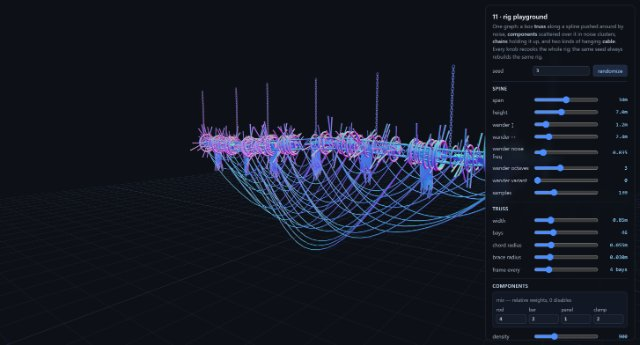
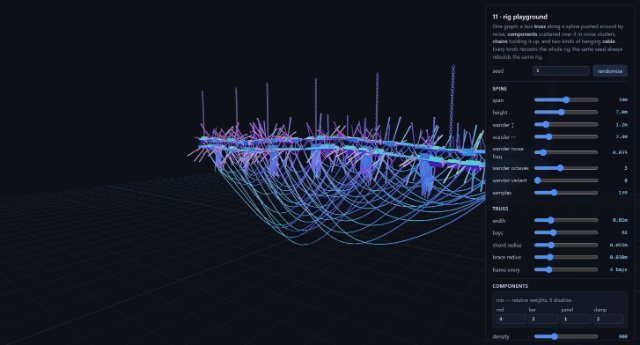
demo(11): components mount to the chords, not the truss axis
A fixture on the centreline of a box truss is inside the box. Each
component now snaps its fan angle to the nearest corner and steps out
there, so it leaves from the tube it would really be clamped to — while
still pointing along its own fan angle, so the radial spread is
unchanged. `mount to chord` blends from the axis (0) out to the corner
(1) for comparison.

The trap this had to avoid: randomField keys on point IDENTITY — stored
position bits plus the seed — so drawing the fan angle a second time
AFTER the mount has moved the point yields a DIFFERENT number, and the
chord a fixture sits on would disagree with the direction it points.
The angle is drawn once, written to an attribute before anything moves,
and read back from there. One draw, one column, read twice.

Verified against the axis rather than by eye: at mount 0 the median
distance from the truss axis is 0.019 m (the scatter jitter), at 0.5 it
is 0.302, and at 1 it is 0.603 against a corner radius of 0.601.

The corner radius is now one shared helper. The truss and anything
mounted to it disagreeing by a hair puts every fixture inside the tube,
which is exactly the kind of thing two copies of `w / 2 * sqrt(2)` drift
into.

Follow-on: the clamp is a collar gripping ONE chord again. Making it a
hoop around the whole section was right while components sat on the
axis and wrong the moment they moved out, since an off-centre hoop
encircles nothing. It tracks the chord radius now.
[…]

Changed region(s): [[0.2812, 0.3188, 0.7812, 0.7246]]

diff --git a/examples/11-rig-playground/rig.ts b/examples/11-rig-playground/rig.ts
@@ -116,6 +116,11 @@ export interface RigParams {
   radialSpread: number;
   /** Scatter off the even resample, as a fraction of the sample spacing. */
   scatterJitter: number;
+  /**
+   * How far out toward a chord each component is mounted, as a fraction
+   * of the corner radius. 0 leaves everything on the truss axis.
+   */
+  partMount: number;
   partSize: number;
   sizeJitter: number;
   // suspension
@@ -188,6 +193,7 @@ export const DEFAULT_PARAMS: RigParams = {
   clusterThreshold: 0.46,
   radialSpread: 1,
   scatterJitter: 0.5,
+  partMount: 1,
   partSize: 1,
   sizeJitter: 0.45,
   chainCount: 7,
@@ -221,6 +227,16 @@ export const DEFAULT_PARAMS: RigParams = {
  */
 function noiseSeed(params: RigParams, salt: number, variant: number): number {
   return hashCombine(params.seed, hashCombine(salt, Math.round(variant)));
+}
+
+/**
+ * Distance from the truss axis out to a chord. The corners sit at 45,
+ * 135, 225 and 315 degrees, so it is half the DIAGONAL of the section
+ * and not half the side. Shared, because the truss and anything mounted
+ * to it disagreeing by a hair puts every fixture inside the tube.
+ */
+function trussCornerRadius(params: RigParams): number {
+  return (params.trussWidth / 2) * Math.SQRT2;
 }
 
 /** Corners the wander is built from, before the arc-length evening. */
@@ -362,7 +378,39 @@ export function buildRigGraph(params: RigParams): Graph {
   // angle `a` in the plane perpendicular to the tangent. A constant
   // world up cannot express it, which is the whole reason `up` is
   // field-capable and writeCurveFrame exists.
-  const angle = mul(randomField("radial"), Math.PI * 2 * params.radialSpread);
+  // The fan angle is STORED before anything moves, and read back from
+  // the attribute afterwards. randomField keys on point IDENTITY — the
+  // stored position bits together with the seed — so drawing it a second
+  // time AFTER the mount below has moved the point yields a DIFFERENT
+  // number, and the chord a fixture sits on would disagree with the way
+  // it points. One draw, one column, read twice.
+  const angleAttr = graph.add(setAttribute, {
+    name: "radialAngle",
+    domain: "point",
+    type: "f32",
+    tupleSize: 1,
+    value: mul(randomField("radial"), Math.PI * 2 * params.radialSpread),
+  });
+  const angle = attribute("radialAngle", 1);
+
+  // Mount to the nearest CHORD rather than to the axis: snap the fan
+  // angle to the closest corner and step out there. The fixture still
+  // points along its own fan angle, so it fans as before — it just
+  // leaves from the tube it would really be clamped to.
+  const mount = graph.add(transformPoints, {
+    translate: (() => {
+      const reach = trussCornerRadius(params) * params.partMount;
+      // round(x) as floor(x + 0.5); the corners are a quarter turn apart
+      // starting at an eighth.
+      const k = floor(add(div(sub(angle, Math.PI / 4), Math.PI / 2), 0.5));
+      const corner = add(mul(Math.PI / 2, k), Math.PI / 4);
+      return add(
+        mul(mul(reach, cos(corner)), attribute("curveNormal", 3)),
+        mul(mul(reach, sin(corner)), attribute("curveBinormal", 3)),
+      );
+    })(),
+  });
+
   const orient = graph.add(orientAlongVector, {
     direction: attribute("tangent", 3),
     up: add(
@@ -390,7 +438,9 @@ export function buildRigGraph(params: RigParams): Graph {
   graph.connect(frame, "out", density, "in");
   graph.connect(density, "out", cluster, "in");
   graph.connect(cluster, "out", scatter, "in");
-  graph.connect(scatter, "out", part, "in");
+  graph.connect(scatter, "out", angleAttr, "in");
+  graph.connect(angleAttr, "out", mount, "in");
+  graph.connect(mount, "out", part, "in");
   graph.connect(part, "out", orient, "in");
   graph.connect(orient, "out", size, "in");
   graph.connect(size, "out", partSpawn, "in");
@@ -434,7 +484,7 @@ function buildTruss(graph: Graph, params: RigParams, spine: NodeRef): void {
   const stations = Math.max(2, Math.round(params.trussStations));
   // Corners sit at 45, 135, 225 and 315 degrees, so the distance from
   // the axis is half the DIAGONAL, not half the side.
-  const h = (params.trussWidth / 2) * Math.SQRT2;
+  const h = trussCornerRadius(params);
   const cells = graph.add(pathResample, { mode: "count", count: stations });
   const frame = graph.add(writeCurveFrame, {});
   graph.connect(spine, "out", cells, "in");

diff --git a/examples/11-rig-playground/main.ts b/examples/11-rig-playground/main.ts
@@ -154,9 +154,15 @@ class StadiumCurve extends Curve<Vector3> {
  */
 const display: Record<DisplayKey, number> = { linkWidth: 0.62, linkThickness: 0.085 };
 
-/** A hoop clearing the truss's corners, which sit at half its diagonal. */
-function buildClamp(trussWidth: number): BufferGeometry {
-  return new TorusGeometry(((trussWidth / 2) * Math.SQRT2) * 1.18, 0.055, 5, 14);
+/**
+ * A collar gripping ONE chord. It was briefly a hoop around the whole
+ * section, which was right while components sat on the truss axis and
+ * wrong the moment they moved out to the chords — an off-centre hoop
+ * encircles nothing. Sized from the chord it clamps, and its axis is +Z,
+ * which is already the direction a chord runs, so it needs no rotation.
+ */
+function buildClamp(chordRadius: number): BufferGeometry {
+  return new TorusGeometry(chordRadius * 2.1, chordRadius * 0.8, 5, 12);
 }
 
 /** Build the link outline and sweep a tube around it. */
@@ -181,12 +187,9 @@ const GEOMETRY: Record<string, BufferGeometry> = {
   rod: new CylinderGeometry(0.045, 0.03, 1.6, 6).translate(0, 0.8, 0),
   bar: new BoxGeometry(0.1, 0.17, 1.5),
   panel: new BoxGeometry(0.42, 0.3, 0.66),
-  // A hoop that encircles the whole truss section rather than a collar
-  // gripping a pipe: the spine is a box now, and a disc sized for the
-  // old tube just floated inside it collaring nothing. A torus is built
-  // around +Z, which is already the axis the components run along, so it
-  // needs no rotation — and it is rebuilt when the truss changes width.
-  clamp: buildClamp(DEFAULT_PARAMS.trussWidth),
+  // A collar around one chord — see buildClamp for why it tracks the
+  // chord rather than the section.
+  clamp: buildClamp(DEFAULT_PARAMS.trussChord),
   // An oblong link of unit LENGTH along Y, so scaling it by a chain
   // segment's length makes it span exactly that segment. Rebuilt when
   // its proportions change, which is why it is the one entry here that
@@ -293,18 +296,18 @@ function clearMeshes(): void {
 }
 
 /** Rebuild the scene objects from the last cook. No cooking happens here. */
-/** Truss width the current clamp hoop was built for. */
-let clampWidth = DEFAULT_PARAMS.trussWidth;
+/** Chord radius the current clamp collar was built for. */
+let clampChord = DEFAULT_PARAMS.trussChord;
 
 function rebuildMeshes(): void {
   clearMeshes();
   // After clearMeshes, never before: the meshes were sharing this buffer
   // and toInstancedMeshes never disposes geometry, so it is the host's to
   // free and only once nothing is drawing it.
-  if (clampWidth !== params.trussWidth) {
-    clampWidth = params.trussWidth;
+  if (clampChord !== params.trussChord) {
+    clampChord = params.trussChord;
     GEOMETRY.clamp.dispose();
-    GEOMETRY.clamp = buildClamp(clampWidth);
+    GEOMETRY.clamp = buildClamp(clampChord);
   }
   if (!lastResult) return;
   const assets = buildAssets();

diff --git a/examples/11-rig-playground/view.ts b/examples/11-rig-playground/view.ts
@@ -94,6 +94,7 @@ export const SECTIONS: readonly Section[] = [
       { key: "clusterThreshold", label: "cluster cut", min: 0, max: 1, step: 0.01 },
       { key: "radialSpread", label: "radial fan", min: 0, max: 1, step: 0.02, unit: "turn" },
       { key: "scatterJitter", label: "scatter", min: 0, max: 4, step: 0.05, unit: "×gap" },
+      { key: "partMount", label: "mount to chord", min: 0, max: 1.4, step: 0.05 },
       { key: "partSize", label: "size", min: 0.2, max: 3, step: 0.05, unit: "x" },
       { key: "sizeJitter", label: "size jitter", min: 0, max: 0.9, step: 0.05 },
     ],
